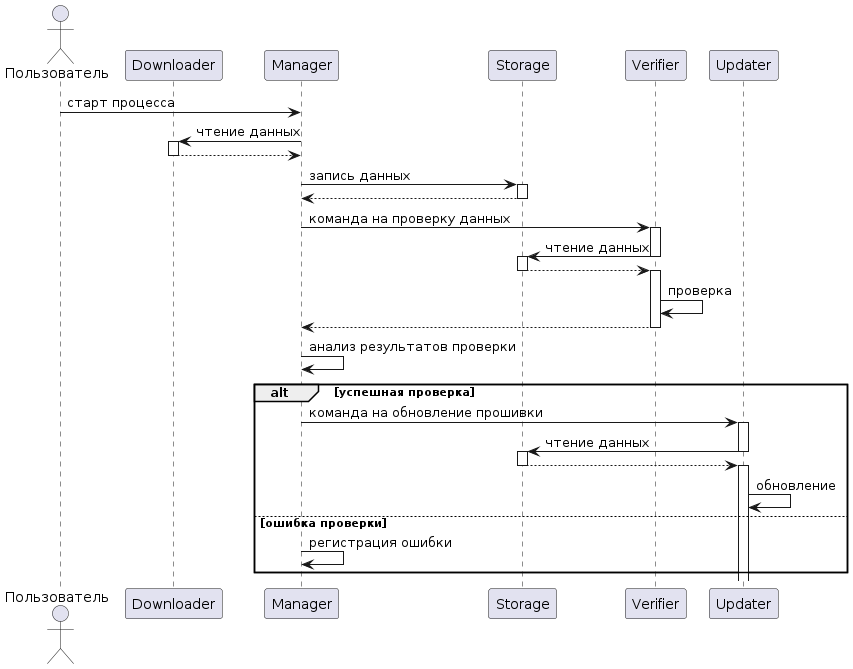
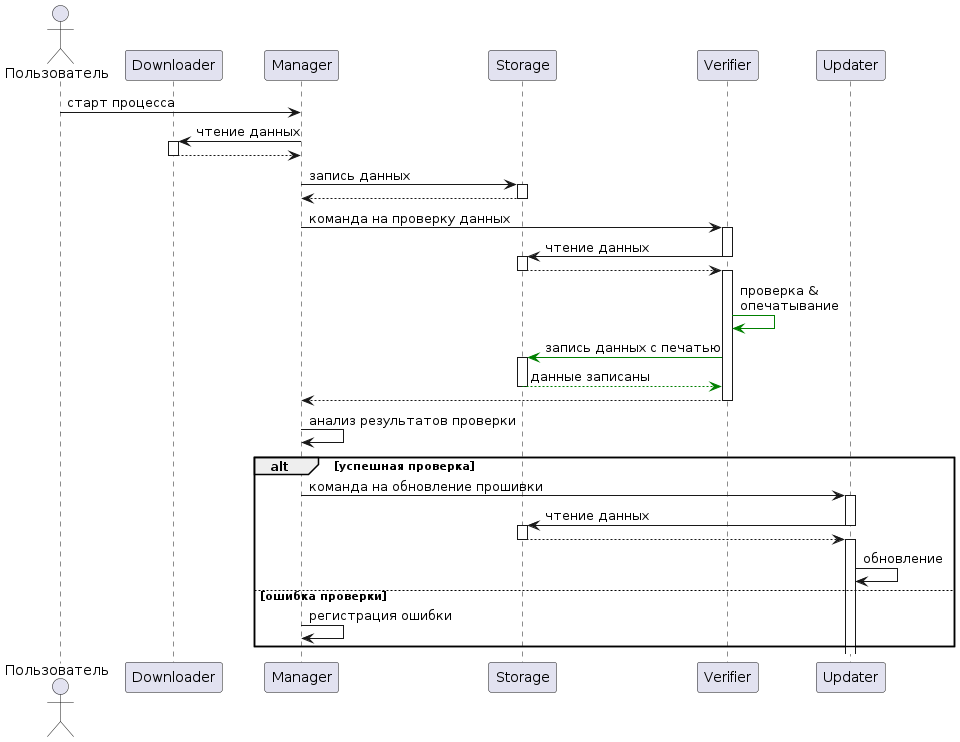
feature: update file sealing implemented

diff --git a/monitor/policies.py b/monitor/policies.py
@@ -1,49 +1,71 @@
+import base64
+VERIFIER_SEAL = 'verifier_seal'
+
+
 def check_operation(id, details):
     authorized = False
     # print(f"[debug] checking policies for event {id}, details: {details}")
-    print(f"[info] checking policies for event {id},"\
+    print(f"[info] checking policies for event {id},"
           f" {details['source']}->{details['deliver_to']}: {details['operation']}")
     src = details['source']
     dst = details['deliver_to']
     operation = details['operation']
-    if  src == 'downloader' and dst == 'manager' \
-        and operation == 'download_done':
-        authorized = True    
+    if src == 'downloader' and dst == 'manager' \
+            and operation == 'download_done':
+        authorized = True
     if src == 'manager' and dst == 'downloader' \
-        and operation == 'download_file':
-        authorized = True    
+            and operation == 'download_file':
+        authorized = True
     if src == 'manager' and dst == 'storage' \
-        and operation == 'commit_blob':
-        authorized = True    
+            and operation == 'commit_blob':
+        authorized = True
     if src == 'manager' and dst == 'verifier' \
-        and operation == 'verification_requested':
-        authorized = True    
+            and operation == 'verification_requested':
+        authorized = True
     if src == 'verifier' and dst == 'manager' \
-        and operation == 'handle_verification_result':
-        authorized = True    
+            and operation == 'handle_verification_result':
+        authorized = True
     if src == 'manager' and dst == 'updater' \
-        and operation == 'proceed_with_update' \
-        and details['verified'] is True:
-        authorized = True    
+            and operation == 'proceed_with_update' \
+            and details['verified'] is True:
+        authorized = True
     if src == 'storage' and dst == 'manager' \
-        and operation == 'blob_committed':
-        authorized = True    
-    if src == 'verifier' and dst == 'storage' \
-        and operation == 'get_blob':
+            and operation == 'blob_committed':
         authorized = True
     if src == 'storage' and dst == 'verifier' \
-        and operation == 'blob_content':
-        authorized = True    
+            and operation == 'blob_committed':
+        authorized = True
+    if src == 'verifier' and dst == 'storage' \
+            and operation == 'get_blob':
+        authorized = True
+    if src == 'verifier' and dst == 'storage' \
+            and operation == 'commit_sealed_blob' \
+            and details['verified'] is True:
+        authorized = True
+    if src == 'storage' and dst == 'verifier' \
+            and operation == 'blob_content':
+        authorized = True
     if src == 'updater' and dst == 'storage' \
-        and operation == 'get_blob':
+            and operation == 'get_blob':
         authorized = True
     if src == 'storage' and dst == 'updater' \
-        and operation == 'blob_content':
+            and operation == 'blob_content' and check_payload_seal(details['blob']) is True:
         authorized = True
     # kea - Kafka events analyzer - an extra service for internal monitoring,
     # can only communicate with itself
     if src == 'kea' and dst == 'kea' \
-        and (operation == 'self_test' or operation == 'test_param'):
+            and (operation == 'self_test' or operation == 'test_param'):
         authorized = True
-    
+
     return authorized
+
+
+def check_payload_seal(payload):
+    try:
+        p = base64.b64decode(payload).decode()
+        if p.endswith(VERIFIER_SEAL):
+            print('[info] payload seal is valid')
+            return True
+    except Exception as e:
+        print(f'[error] seal check error: {e}')
+        return False

diff --git a/verifier/consumer.py b/verifier/consumer.py
@@ -7,10 +7,13 @@ from producer import proceed_to_deliver
 import base64
 from hashlib import sha256
 
+def seal_payload(payload:bytearray):
+    return base64.b64encode((payload+'verifier_seal').encode()).decode()
 
-def verify_payload(details) -> bool:
+
+def verify_and_seal_payload(details) -> bool:
     payload_digest = sha256()
-    update_payload_b64 = details['blob']
+    update_payload_b64 = details['blob']    
     update_payload = base64.b64decode(update_payload_b64)
     # update_payload = details['blob']
     if details['digest_alg'] != 'sha256':
@@ -18,10 +21,11 @@ def verify_payload(details) -> bool:
         return False
     payload_digest.update(update_payload)
     hexdigest = payload_digest.hexdigest()
+    details['blob_sealed'] = seal_payload(update_payload_b64)
     if hexdigest != details['digest']:
         print(
             f"[warning] digest verification failed, actual {hexdigest}, expected {details['digest']}")
-        return False
+        return False    
     return True
 
 
@@ -49,13 +53,19 @@ def handle_event(id, details_str):
             delivery_required = True
         elif details['operation'] == 'blob_content':
             # got the blob from storage, verify and notify manager
-            verified = verify_payload(details)
-            cleanup_extra_fields(details)
-            details['operation'] = 'handle_verification_result'
+            verified = verify_and_seal_payload(details)
             details['verified'] = verified
-            if not verified:
+            if verified: 
+                # commit the sealed blob                
+                details['deliver_to'] = 'storage'
+                details['operation'] = 'commit_sealed_blob'
+                cleanup_extra_fields(details)
+                delivery_required = True
+            else:
                 print('[error] !!! update payload verification failed !!!\n'\
                       f"{details}")
+        elif details['operation'] == 'blob_committed':
+            details['operation'] = 'handle_verification_result'            
             try:
                 # try to send verification result to the original requester                
                 details['deliver_to'] = details['verification_requester']

diff --git a/storage/consumer.py b/storage/consumer.py
@@ -24,6 +24,20 @@ def commit_blob(id, details):
     return stored, id
 
 
+def commit_sealed_blob(id, details):
+    stored = False
+    sealed_blob_b64 = details['blob_sealed']
+    update_payload = base64.b64decode(sealed_blob_b64)
+    try:
+        with open(STORAGE_PATH+id, "wb") as f:
+            f.write(update_payload)
+        f.close()
+        stored = True
+    except Exception as e:
+        print(f'[error] failed to store blob {id} in {os.getcwd()}: {e}')
+    return stored, id
+
+
 def get_blob(id, details):
     success = False
     encoded_blob = None
@@ -40,9 +54,10 @@ def get_blob(id, details):
 
 def handle_event(id: str, details: dict):
     # print(f"[debug] handling event {id}, {details}")
-    print(f"[info] handling event {id}, {details['source']}->{details['deliver_to']}: {details['operation']}")
+    print(
+        f"[info] handling event {id}, {details['source']}->{details['deliver_to']}: {details['operation']}")
     try:
-        if details['operation'] == 'commit_blob':                                
+        if details['operation'] == 'commit_blob':
             # it's a request to store the blob
             stored, blob_id = commit_blob(id, details)
             if stored:
@@ -52,6 +67,20 @@ def handle_event(id: str, details: dict):
                 # remove the update file payload before sending further
                 try:
                     del details['update_file']
+                finally:
+                    proceed_to_deliver(id, details)
+            else:
+                print("[error] failed to store blob")
+        elif details['operation'] == 'commit_sealed_blob':
+            # it's a request to store the sealed blob
+            stored, blob_id = commit_sealed_blob(id, details)
+            if stored:
+                details['deliver_to'] = details['source']
+                details['blob_id'] = blob_id
+                details['operation'] = 'blob_committed'
+                # remove the sealed payload before sending further
+                try:
+                    del details['blob_sealed']
                 finally:
                     proceed_to_deliver(id, details)
             else:

diff --git a/updater/consumer.py b/updater/consumer.py
@@ -12,6 +12,18 @@ UPDATE_CWD = "updater/"
 STORAGE_PATH = "tmp/"
 UPDATE_SCRIPT_NAME = "./update-and-restart-app.sh"
 APP_PATH = "../app/"
+VERIFIER_SEAL = 'verifier_seal'
+
+
+
+def check_seal(payload:str):        
+    if payload.endswith(VERIFIER_SEAL):
+        return True
+    return False
+
+def strip_verifier_seal(sealed_payload:str):
+    payload = sealed_payload[:-len(VERIFIER_SEAL)]
+    return payload
 
 
 def execute_update(id, details):
@@ -21,7 +33,13 @@ def execute_update(id, details):
     if details['update_file_encoding'] != 'base64':
         print('[error] unsupported blob encoding')
         return
-    update_payload = base64.b64decode(update_payload_b64)
+    update_sealed_payload = base64.b64decode(update_payload_b64).decode()
+    if check_seal(update_sealed_payload) is not True:
+        print('[error] verifier seal is missing or invalid')
+        return
+    else:
+        payload = strip_verifier_seal(update_sealed_payload).encode()
+        update_payload = base64.b64decode(payload)
     try:
         with open(UPDATE_CWD+STORAGE_PATH+id, "wb") as f:
             f.write(update_payload)

diff --git a/docs/report/report.md b/docs/report/report.md
@@ -1,25 +1,25 @@
 # Отчёт о выполнении задачи "Secure update"
 
 - [Отчёт о выполнении задачи "Secure update"](#отчёт-о-выполнении-задачи-secure-update)
-  - [Постановка задачи*](#постановка-задачи)
-  - [Известные ограничения и вводные*](#известные-ограничения-и-вводные)
-    - [Цели и Предположения Безопасности (ЦПБ)*](#цели-и-предположения-безопасности-цпб)
-      - [Цели*](#цели)
-      - [Предположения*](#предположения)
-  - [Архитектура решения*](#архитектура-решения)
-    - [Компоненты*](#компоненты)
+  - [Постановка задачи\*](#постановка-задачи)
+  - [Известные ограничения и вводные\*](#известные-ограничения-и-вводные)
+    - [Цели и Предположения Безопасности (ЦПБ)\*](#цели-и-предположения-безопасности-цпб)
+      - [Цели\*](#цели)
+      - [Предположения\*](#предположения)
+  - [Архитектура решения\*](#архитектура-решения)
+    - [Компоненты\*](#компоненты)
       - [Монитор безопасности (security monitor)](#монитор-безопасности-security-monitor)
-    - [Алгоритм работы решения*](#алгоритм-работы-решения)
-    - [Описание cценариев (последовательности выполнения операций), при которых ЦБ нарушаются*](#описание-cценариев-последовательности-выполнения-операций-при-которых-цб-нарушаются)
+    - [Алгоритм работы решения\*](#алгоритм-работы-решения)
+    - [Описание cценариев (последовательности выполнения операций), при которых ЦБ нарушаются\*](#описание-cценариев-последовательности-выполнения-операций-при-которых-цб-нарушаются)
       - [Негативный сценарий 1. Менеджер не проверяет обновление](#негативный-сценарий-1-менеджер-не-проверяет-обновление)
       - [Негативный сценарий 2. Менеджер игнорирует результаты проверки](#негативный-сценарий-2-менеджер-игнорирует-результаты-проверки)
       - [Негативный сценарий 3. Storage подменяет файл после проверки](#негативный-сценарий-3-storage-подменяет-файл-после-проверки)
-      - [Сводная таблица негативных сценариев*](#сводная-таблица-негативных-сценариев)
-    - [Указание "доверенных компонент" на архитектурной диаграмме с обоснованием выбора*](#указание-доверенных-компонент-на-архитектурной-диаграмме-с-обоснованием-выбора)
-    - [Политики безопасности*](#политики-безопасности)
-  - [Запуск приложения и тестов*](#запуск-приложения-и-тестов)
-    - [Запуск приложения*](#запуск-приложения)
-    - [Запуск тестов*](#запуск-тестов)
+      - [Сводная таблица негативных сценариев\*](#сводная-таблица-негативных-сценариев)
+    - [Указание "доверенных компонент" на архитектурной диаграмме с обоснованием выбора\*](#указание-доверенных-компонент-на-архитектурной-диаграмме-с-обоснованием-выбора)
+    - [Политики безопасности\*](#политики-безопасности)
+  - [Запуск приложения и тестов\*](#запуск-приложения-и-тестов)
+    - [Запуск приложения\*](#запуск-приложения)
+    - [Запуск тестов\*](#запуск-тестов)
 
 ---
 **Важно!** 
@@ -175,47 +175,73 @@
 
 ```python {lineNo:true}
 
+import base64
+VERIFIER_SEAL = 'verifier_seal'
+
+
 def check_operation(id, details):
     authorized = False
+    # print(f"[debug] checking policies for event {id}, details: {details}")
+    print(f"[info] checking policies for event {id},"
+          f" {details['source']}->{details['deliver_to']}: {details['operation']}")
     src = details['source']
     dst = details['deliver_to']
     operation = details['operation']
-    if  src == 'downloader' and dst == 'manager' \
-        and operation == 'download_done':
-        authorized = True   
+    if src == 'downloader' and dst == 'manager' \
+            and operation == 'download_done':
+        authorized = True
     if src == 'manager' and dst == 'downloader' \
-        and operation == 'download_file':
-        authorized = True   
+            and operation == 'download_file':
+        authorized = True
     if src == 'manager' and dst == 'storage' \
-        and operation == 'commit_blob':
-        authorized = True   
+            and operation == 'commit_blob':
+        authorized = True
     if src == 'manager' and dst == 'verifier' \
-        and operation == 'verification_requested':
-        authorized = True   
+            and operation == 'verification_requested':
+        authorized = True
     if src == 'verifier' and dst == 'manager' \
-        and operation == 'handle_verification_result':
-        authorized = True   
+            and operation == 'handle_verification_result':
+        authorized = True
     if src == 'manager' and dst == 'updater' \
-        and operation == 'proceed_with_update' \
-        and details['verified'] is True:
-        authorized = True   
+            and operation == 'proceed_with_update' \
+            and details['verified'] is True:
+        authorized = True
     if src == 'storage' and dst == 'manager' \
-        and operation == 'blob_committed':
-        authorized = True   
-    if src == 'verifier' and dst == 'storage' \
-        and operation == 'get_blob':
+            and operation == 'blob_committed':
         authorized = True
     if src == 'storage' and dst == 'verifier' \
-        and operation == 'blob_content':
-        authorized = True   
+            and operation == 'blob_committed':
+        authorized = True
+    if src == 'verifier' and dst == 'storage' \
+            and operation == 'get_blob':
+        authorized = True
+    if src == 'verifier' and dst == 'storage' \
+            and operation == 'commit_sealed_blob' \
+            and details['verified'] is True:
+        authorized = True
+    if src == 'storage' and dst == 'verifier' \
+            and operation == 'blob_content':
+        authorized = True
     if src == 'updater' and dst == 'storage' \
-        and operation == 'get_blob':
+            and operation == 'get_blob':
         authorized = True
     if src == 'storage' and dst == 'updater' \
-        and operation == 'blob_content':
-        authorized = True   
-     
+            and operation == 'blob_content' and check_payload_seal(details['blob']) is True:
+        authorized = True
+
     return authorized
+
+
+def check_payload_seal(payload):
+    try:
+        p = base64.b64decode(payload).decode()
+        if p.endswith(VERIFIER_SEAL):
+            print('[info] payload seal is valid')
+            return True
+    except Exception as e:
+        print(f'[error] seal check error: {e}')
+        return False
+
 
 ```
 
